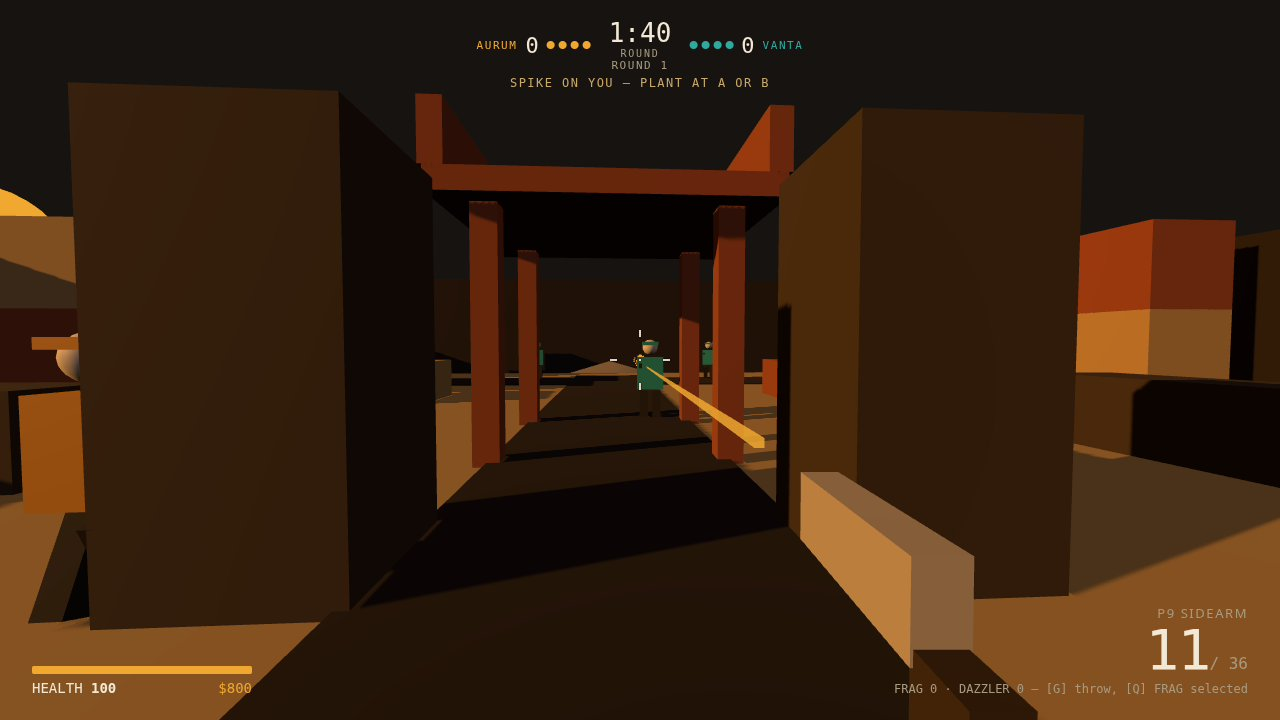
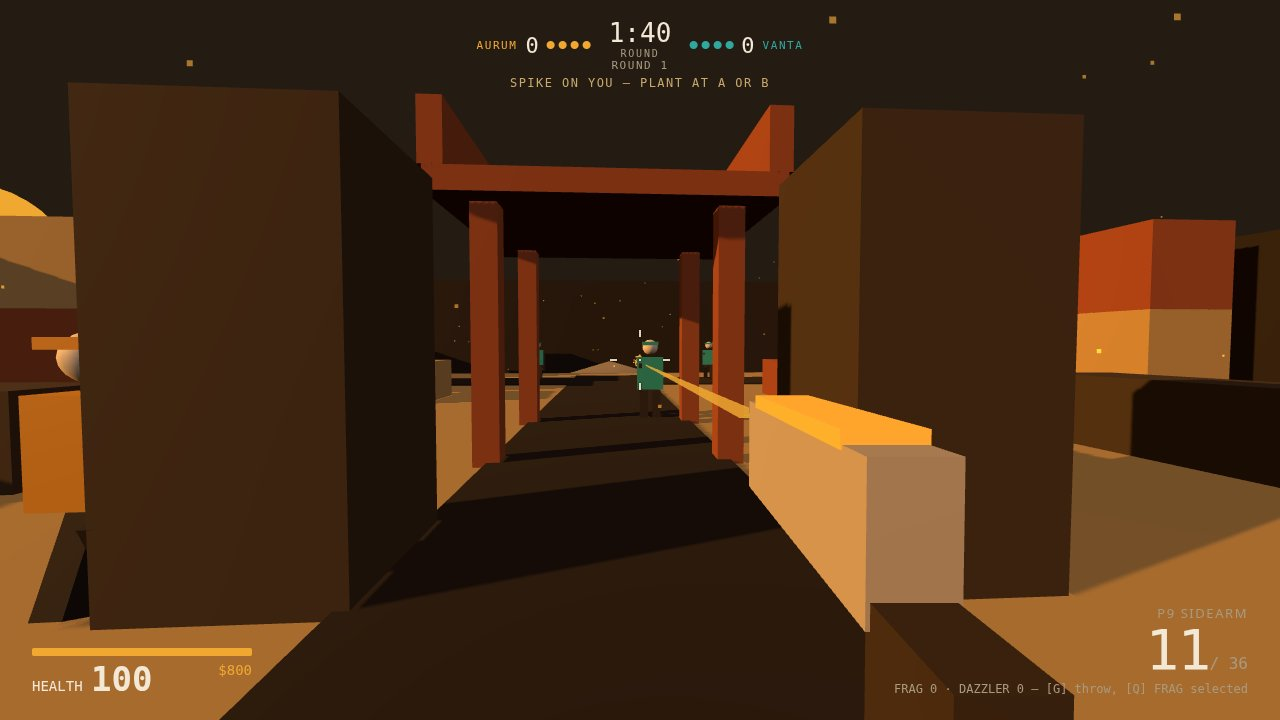
Polish SANDLINE for threejs-fps-02: brighter dusk lighting, dust motes, readable gun viewmodel with walk bob, bigger health readout, judge-facing source brief

diff --git a/game/src/weapons.js b/game/src/weapons.js
@@ -20,11 +20,16 @@ export const GRENADES = {
 };
 
 // One gun's first-person model, built from boxes: a different silhouette per
-// weapon so the player can tell at a glance what is in their hands.
+// weapon so the player can tell at a glance what is in their hands. Every
+// model carries one thin amber stripe — the gun has to read against dark
+// walls and sand alike, and the stripe is what the eye catches first. The
+// rig sits a touch higher and further in than the first pass, which had the
+// grip half out of the bottom of the frame.
 function makeGunModel(spec) {
   const gripMat = new THREE.MeshStandardMaterial({ color: new THREE.Color(PALETTE.hairline), roughness: 0.7, metalness: 0.2 });
   const bodyMat = new THREE.MeshStandardMaterial({ color: new THREE.Color(PALETTE.ink), roughness: 0.5, metalness: 0.35 });
   const darkMat = new THREE.MeshStandardMaterial({ color: new THREE.Color(PALETTE.surface), roughness: 0.6, metalness: 0.3 });
+  const stripeMat = new THREE.MeshStandardMaterial({ color: new THREE.Color(PALETTE.accent), roughness: 0.45, metalness: 0.25, emissive: new THREE.Color(PALETTE.accent), emissiveIntensity: 0.7 });
   const assembly = new THREE.Group();
   function addBit(w, h, d, x, y, z, mat) {
     const bit = new THREE.Mesh(new THREE.BoxGeometry(w, h, d), mat);
@@ -35,27 +40,36 @@ function makeGunModel(spec) {
   if (spec.id === 'p9') {
     addBit(0.05, 0.09, 0.26, 0, 0, -0.1, bodyMat);
     addBit(0.045, 0.12, 0.07, 0, -0.09, 0.06, gripMat);
+    addBit(0.052, 0.012, 0.2, 0, 0.048, -0.1, stripeMat);
   } else if (spec.id === 'raptor') {
     addBit(0.07, 0.09, 0.34, 0, 0, -0.12, bodyMat);
     addBit(0.04, 0.04, 0.3, 0, 0.02, -0.32, darkMat);
     addBit(0.05, 0.14, 0.06, 0, -0.1, -0.02, gripMat);
     addBit(0.06, 0.05, 0.12, 0, -0.06, 0.14, gripMat);
+    addBit(0.072, 0.012, 0.26, 0, 0.048, -0.12, stripeMat);
   } else if (spec.id === 'breacher') {
     addBit(0.09, 0.11, 0.5, 0, 0, -0.12, darkMat);
     addBit(0.05, 0.05, 0.52, 0, 0.045, -0.14, bodyMat);
     addBit(0.07, 0.09, 0.2, 0, -0.03, 0.26, gripMat);
+    addBit(0.092, 0.012, 0.4, 0, 0.058, -0.12, stripeMat);
   } else if (spec.id === 'longbow') {
     addBit(0.07, 0.09, 0.62, 0, 0, -0.18, bodyMat);
     addBit(0.05, 0.05, 0.5, 0, 0.03, -0.3, darkMat);
     addBit(0.06, 0.06, 0.16, 0, 0.09, -0.1, darkMat); // scope
     addBit(0.06, 0.08, 0.2, 0, -0.03, 0.28, gripMat);
+    addBit(0.072, 0.012, 0.5, 0, 0.048, -0.18, stripeMat);
   } else {
     addBit(0.09, 0.1, 0.42, 0, 0, -0.12, bodyMat);
     addBit(0.045, 0.045, 0.4, 0, 0.025, -0.38, gripMat);
     addBit(0.075, 0.08, 0.22, 0, -0.02, 0.3, gripMat);
     addBit(0.05, 0.04, 0.14, 0, 0.07, -0.05, darkMat); // sight
+    addBit(0.092, 0.012, 0.32, 0, 0.053, -0.12, stripeMat);
   }
-  assembly.position.set(0.24, -0.2, -0.42);
+  assembly.position.set(0.21, -0.14, -0.42);
+  // The rig is scaled up half again: at life size the pistol read as a thin
+  // bar against the sand, easy to miss entirely. Bigger, higher and with a
+  // glowing stripe, it reads as a gun at a glance.
+  assembly.scale.set(1.5, 1.5, 1.5);
   return assembly;
 }
 
@@ -66,11 +80,11 @@ export function createWeapons(camera) {
     new THREE.PlaneGeometry(0.24, 0.24), // the glowing muzzle quad
     new THREE.MeshBasicMaterial({ color: new THREE.Color(PALETTE.accent), side: THREE.DoubleSide, transparent: true, opacity: 0.9, depthWrite: false }),
   );
-  burstQuad.position.set(0.24, -0.18, -0.95);
+  burstQuad.position.set(0.21, -0.12, -0.95);
   burstQuad.visible = false;
   camera.add(burstQuad);
   const burstLight = new THREE.PointLight(new THREE.Color(PALETTE.accent), 0, 5);
-  burstLight.position.set(0.24, -0.16, -0.6);
+  burstLight.position.set(0.21, -0.10, -0.6);
   camera.add(burstLight);
 
   const rigs = {};
@@ -94,21 +108,28 @@ export function createWeapons(camera) {
   const stock = {};
   for (const spec of Object.values(WEAPONS)) stock[spec.id] = { mag: spec.mag, reserve: spec.reserve };
   rigs.p9.visible = true;
+  let bobPhase = 0;
 
   function selected() {
     const held = WEAPONS[state.id];
     return held;
   }
 
-  function step(frame) {
+  function step(frame, speed) {
     state.cooldown = Math.max(0, state.cooldown - frame);
     state.flash = Math.max(0, state.flash - frame);
     state.kick += (0 - state.kick) * Math.min(1, frame * 14);
     const rig = rigs[state.id];
+    // Walk bob: the gun sways with the player's stride, stronger the faster
+    // they move, and settles the moment they stop — the same movement that
+    // the spread punishes is visible in the hands.
+    const pace = Math.min(1, (speed || 0) / 5.2);
+    bobPhase += frame * (speed || 0) * 1.7;
+    const bob = Math.sin(bobPhase) * 0.008 * pace;
     rig.position.z = -0.42 + state.kick;
     rig.rotation.x = state.kick * 2.2;
-    rig.position.y = -0.2 + (state.zoomed ? 0.055 : 0);
-    rig.position.x = 0.24 + (state.zoomed ? -0.24 : 0);
+    rig.position.y = -0.14 + (state.zoomed ? 0.055 : 0) + bob;
+    rig.position.x = 0.21 + (state.zoomed ? -0.21 : 0) + Math.cos(bobPhase * 0.5) * 0.004 * pace;
     burstQuad.visible = state.flash > 0;
     burstQuad.rotation.z = state.flash * 30;
     burstLight.intensity = state.flash > 0 ? 18 : 0;
@@ -180,7 +201,7 @@ export function createWeapons(camera) {
       state.kick = 0;
     },
     muzzleWorld(out) {
-      out.set(0.24, -0.16, -0.95);
+      out.set(0.21, -0.10, -0.95);
       return camera.localToWorld(out);
     },
   };

diff --git a/game/src/effects.js b/game/src/effects.js
@@ -1,6 +1,8 @@
-// Effects: pooled tracers, impact sparks and the planted spike. Nothing is
-// allocated per frame: a fixed pool of tracer beams is reused, and the sparks
-// are a single points cloud whose vertices are rewritten in place.
+// Effects: pooled tracer beams, impact sparks, the planted spike, and the
+// dusk air itself — slow amber motes drifting over the compound so the scene
+// never reads as an empty grey box. Nothing is allocated per frame: the
+// tracer beams are a fixed reused pool, the sparks and the motes are single
+// points clouds whose vertices are rewritten in place.
 import * as THREE from 'three';
 import { PALETTE } from './palette.js';
 
@@ -9,8 +11,23 @@ const SPARK_TOTAL = 120;
 const BOLT_LIFE = 0.07;
 const EMBER_LIFE = 0.35;
 const EMBER_GRAVITY = 9;
+const MOTE_TOTAL = 140;
+
+// A fixed-seed shuffle so the motes sit in the same places every load:
+// the capture frames and live play agree, and no per-frame random is needed.
+function moteRandom(seed) {
+  let a = seed;
+  return function next() {
+    a |= 0;
+    a = (a + 0x6d2b79f5) | 0;
+    let t = Math.imul(a ^ (a >>> 15), 1 | a);
+    t = (t + Math.imul(t ^ (t >>> 7), 61 | t)) ^ t;
+    return ((t ^ (t >>> 14)) >>> 0) / 4294967296;
+  };
+}
 
 export function createEffects(scene) {
+  // --- Tracers: one shared beam mesh per shot, stretched between two points.
   const boltMat = new THREE.MeshBasicMaterial({ color: new THREE.Color(PALETTE.accent), transparent: true, opacity: 0.85 });
   const beams = [];
   for (let i = 0; i < BOLT_POOL; i += 1) {
@@ -21,6 +38,7 @@ export function createEffects(scene) {
   }
   let beamCursor = 0;
 
+  // --- Impact sparks: one burst, one cloud, reused for every hit.
   const emberGeo = new THREE.BufferGeometry();
   const emberPos = new Float32Array(SPARK_TOTAL * 3);
   emberGeo.setAttribute('position', new THREE.BufferAttribute(emberPos, 3));
@@ -34,6 +52,37 @@ export function createEffects(scene) {
   const emberVel = new Float32Array(SPARK_TOTAL * 3);
   let emberLife = 0;
 
+  // --- Dust motes: warm specks hanging in the dusk light, always on.
+  // They drift on slow sine paths inside the compound walls and wrap around,
+  // so the air has depth even when nobody is shooting.
+  const moteGeo = new THREE.BufferGeometry();
+  const motePos = new Float32Array(MOTE_TOTAL * 3);
+  const motePhase = new Float32Array(MOTE_TOTAL * 2);
+  const moteSeed = moteRandom(7);
+  for (let i = 0; i < MOTE_TOTAL; i += 1) {
+    motePos[i * 3] = (moteSeed() * 2 - 1) * 19;
+    motePos[i * 3 + 1] = 0.3 + moteSeed() * 5.5;
+    motePos[i * 3 + 2] = (moteSeed() * 2 - 1) * 17;
+    motePhase[i * 2] = moteSeed() * Math.PI * 2;
+    motePhase[i * 2 + 1] = 0.25 + moteSeed() * 0.6;
+  }
+  moteGeo.setAttribute('position', new THREE.BufferAttribute(motePos, 3));
+  const moteCloud = new THREE.Points(
+    moteGeo,
+    new THREE.PointsMaterial({
+      color: new THREE.Color(PALETTE.accent),
+      size: 0.07,
+      transparent: true,
+      opacity: 0.55,
+      blending: THREE.AdditiveBlending,
+      depthWrite: false,
+    }),
+  );
+  moteCloud.frustumCulled = false;
+  scene.add(moteCloud);
+  let moteClock = 0;
+
+  // --- The planted spike: a glowing prop with a pulsing light.
   const spikeSkin = new THREE.MeshStandardMaterial({ color: new THREE.Color(PALETTE.ember), roughness: 0.4, metalness: 0.5, emissive: new THREE.Color(PALETTE.ember), emissiveIntensity: 1.2 });
   const spikeProp = new THREE.Group();
   const spikeCore = new THREE.Mesh(new THREE.BoxGeometry(0.5, 0.3, 0.7), spikeSkin);
@@ -93,6 +142,23 @@ export function createEffects(scene) {
       emberGeo.attributes.position.needsUpdate = true;
       if (emberLife <= 0) emberCloud.visible = false;
     }
+    // Motes never stop: each one bobs on its own sine and drifts sideways,
+    // wrapping at the walls so the cloud never thins out.
+    moteClock += dt;
+    for (let i = 0; i < MOTE_TOTAL; i += 1) {
+      const phase = motePhase[i * 2];
+      const speed = motePhase[i * 2 + 1];
+      motePos[i * 3] += Math.sin(moteClock * 0.22 * speed + phase) * dt * 0.35;
+      motePos[i * 3 + 1] += Math.cos(moteClock * 0.31 * speed + phase) * dt * 0.12;
+      motePos[i * 3 + 2] += Math.cos(moteClock * 0.19 * speed + phase * 1.7) * dt * 0.3;
+      if (motePos[i * 3] > 19) motePos[i * 3] = -19;
+      else if (motePos[i * 3] < -19) motePos[i * 3] = 19;
+      if (motePos[i * 3 + 2] > 17) motePos[i * 3 + 2] = -17;
+      else if (motePos[i * 3 + 2] < -17) motePos[i * 3 + 2] = 17;
+      if (motePos[i * 3 + 1] > 6) motePos[i * 3 + 1] = 0.3;
+      else if (motePos[i * 3 + 1] < 0.2) motePos[i * 3 + 1] = 5.8;
+    }
+    moteGeo.attributes.position.needsUpdate = true;
   }
 
   function showSpike(x, z, on) {

diff --git a/game/src/main.js b/game/src/main.js
@@ -4,6 +4,18 @@
 // defenders; first to 5 rounds takes the match. ?shot=start|play|bomb|end with
 // &seed=N sets up a deterministic frame for a capture, renders it twice, then
 // freezes it and sets window.__shotReady.
+//
+// Where the game lives, one module per job: world.js builds the 40x36 m dusk
+// compound (three lanes, sites A/B, bot routes, lighting); player.js moves
+// the hero with acceleration, crouch and map collision; weapons.js owns the
+// five guns, their view models, spread that grows with movement, recoil and
+// headshot multipliers; bots.js drives the seven bots (routes, holds, sight
+// and hearing, plant/defuse); rounds.js owns phases, timers and scoring;
+// economy.js owns money and the buy menu; grenades.js throws frag and flash;
+// effects.js pools tracers, sparks and dust; audio.js synthesises every
+// sound; hud.js is the DOM (health, ammo, timer, score, kill feed, shop).
+// The sim ticks at a fixed 60 Hz in tick() and never allocates in its hot
+// loops; rendering only reads state, it never writes it.
 import * as THREE from 'three';
 import { PALETTE } from './palette.js';
 import { createWorld, SITES, SPAWNS } from './world.js';
@@ -51,7 +63,7 @@ document.getElementById('game').appendChild(gl.domElement);
 
 const stage = new THREE.Scene();
 stage.background = new THREE.Color(PALETTE.canvas);
-stage.fog = new THREE.Fog(new THREE.Color(PALETTE.canvas), 26, 70);
+stage.fog = new THREE.Fog(new THREE.Color(PALETTE.canvas), 30, 85);
 const cam = new THREE.PerspectiveCamera(74, window.innerWidth / window.innerHeight, 0.05, 160);
 stage.add(cam);
 
@@ -513,7 +525,7 @@ function tick(dt) {
       }
     }
   }
-  arsenal.step(dt);
+  arsenal.step(dt, hero.groundSpeed());
   session.throwCooldown = Math.max(0, session.throwCooldown - dt);
   if (session.flashBlind > 0) {
     session.flashBlind = Math.max(0, session.flashBlind - dt / 2.2);

diff --git a/game/src/world.js b/game/src/world.js
@@ -163,9 +163,13 @@ export function createWorld(scene) {
 
   // Light: a low amber sun in the west, a cool dusk fill, and a warm glow over
   // each bomb site so the sites read at a glance from anywhere on the map.
-  const dome = new THREE.HemisphereLight(new THREE.Color('#8a6a4a'), new THREE.Color(PALETTE.canvas), 1.35);
+  // The levels are deliberately generous: the first pass read too dark on
+  // shaded faces and in the lanes, so the hemisphere and the fill were raised
+  // until the ground, the crates and the far walls all stay readable while
+  // the dusk mood (warm sun, cool fill) is kept.
+  const dome = new THREE.HemisphereLight(new THREE.Color('#b08d63'), new THREE.Color(PALETTE.canvas), 2.1);
   scene.add(dome);
-  const sunLamp = new THREE.DirectionalLight(new THREE.Color('#ffb45e'), 2.8);
+  const sunLamp = new THREE.DirectionalLight(new THREE.Color('#ffb45e'), 3.6);
   sunLamp.position.set(-24, 10, 6);
   sunLamp.target.position.set(4, 0, -4);
   sunLamp.castShadow = true;
@@ -177,11 +181,11 @@ export function createWorld(scene) {
   sunLamp.shadow.camera.far = 70;
   sunLamp.shadow.bias = -0.0006;
   scene.add(sunLamp, sunLamp.target);
-  const fillLamp = new THREE.DirectionalLight(new THREE.Color('#5a6a8a'), 0.75);
+  const fillLamp = new THREE.DirectionalLight(new THREE.Color('#5a6a8a'), 1.25);
   fillLamp.position.set(10, 12, 14);
   scene.add(fillLamp);
   for (const spot of [SITES.A, SITES.B]) {
-    const glow = new THREE.PointLight(new THREE.Color(PALETTE.ember), 14, 14);
+    const glow = new THREE.PointLight(new THREE.Color(PALETTE.ember), 22, 16);
     glow.position.set(spot.x, 4.5, spot.z);
     scene.add(glow);
   }

diff --git a/game/index.html b/game/index.html
@@ -1,6 +1,21 @@
 <!doctype html>
 <html lang="en">
 <head>
+<!--
+  SANDLINE — a round-based tactical FPS on a dusk desert compound (three.js
+  0.187.0, static files, no build step, no network). What this game is, in
+  one place: first-person mouse look + WASD movement with acceleration and
+  crouch, five guns that fire, reload and run dry (P9, VK-47, Raptor-9,
+  Breacher-12, Longbow with a scope), headshots worth 4x, recoil and spread
+  that grow when you fire on the move; 4v4 rounds (you + 3 AURUM bots vs 4
+  VANTA bots) won by planting the spike at A or B, defusing it, or wiping
+  the other team, first to 5; money each round spent in a buy menu, plus
+  frag and flash (dazzler) grenades; bots that follow routes, hold sites,
+  hear shots and react to the spike; a HUD with health, ammo, timer, score
+  and alive pips, a kill feed and round banners. The sim ticks at a fixed
+  60 Hz in game/src/main.js and never allocates in its hot loops; one
+  module owns each job (see the header comment in game/src/main.js).
+-->
 <meta charset="utf-8">
 <meta name="viewport" content="width=device-width, initial-scale=1">
 <title>SANDLINE — a three.js tactical FPS</title>
@@ -13,7 +28,7 @@
     --font-readout: ui-monospace, 'SF Mono', Menlo, monospace;
     --radius-panel: 4px;
     --radius-control: 8px;
-    --canvas: #171310;
+    --canvas: #241b13;
     --surface: #2a2118;
     --hairline: #4a3a26;
     --ink: #f2e8d5;
@@ -226,6 +241,8 @@
     font-size: 14px;
   }
   #health-value {
+    font-size: 34px;
+    line-height: 1;
     color: var(--ink);
   }
   #money-value {

diff --git a/main.ts b/main.ts
@@ -1,4 +1,4 @@
-// SANDLINE — a threejs-fps-01 entry (Node 22, standard library only): a
+// SANDLINE — a threejs-fps-02 entry (Node 22, standard library only): a
 // round-based tactical FPS on a dusk desert compound. The game itself is this
 // directory's game/ folder — plain static files the browser loads as ES modules
 // with three.js from an import map — and this program hands it in: it copies
@@ -17,6 +17,13 @@ import { buildDossier } from './vendor/makefun-threejs.ts';
 
 const repoRoot = fileURLToPath(new URL('.', import.meta.url));
 const outputDir = process.env.MAKEFUN_OUTPUT_DIR ?? '/output';
+
+// Fail fast, with a readable message, if the game folder is incomplete:
+// a dossier built from a half-copied game would only fail later, in the
+// scorer, where the reason is harder to see.
+if (!existsSync(join(repoRoot, 'game', 'index.html'))) {
+  throw new Error('SANDLINE hand-in refused: game/index.html is missing');
+}
 
 function copyTree(source, target) {
   cpSync(join(repoRoot, source), join(outputDir, target), { recursive: true });

diff --git a/game/src/palette.js b/game/src/palette.js
@@ -3,7 +3,8 @@
 // tells friend from foe. The stylesheet in index.html mirrors these same names
 // as CSS custom properties, and the world builder reads them for materials.
 const SWATCHES = [
-  ['canvas', '#171310'], // dusk sky, fog wash
+  ['canvas', '#241b13'], // dusk sky, fog wash — lifted from near-black so the
+  // far walls and lanes still read at a glance instead of fading to black
   ['surface', '#2a2118'], // walls, ground shadow
   ['hairline', '#4a3a26'], // crates, barriers
   ['ink', '#f2e8d5'], // sand-lit faces, HUD text
